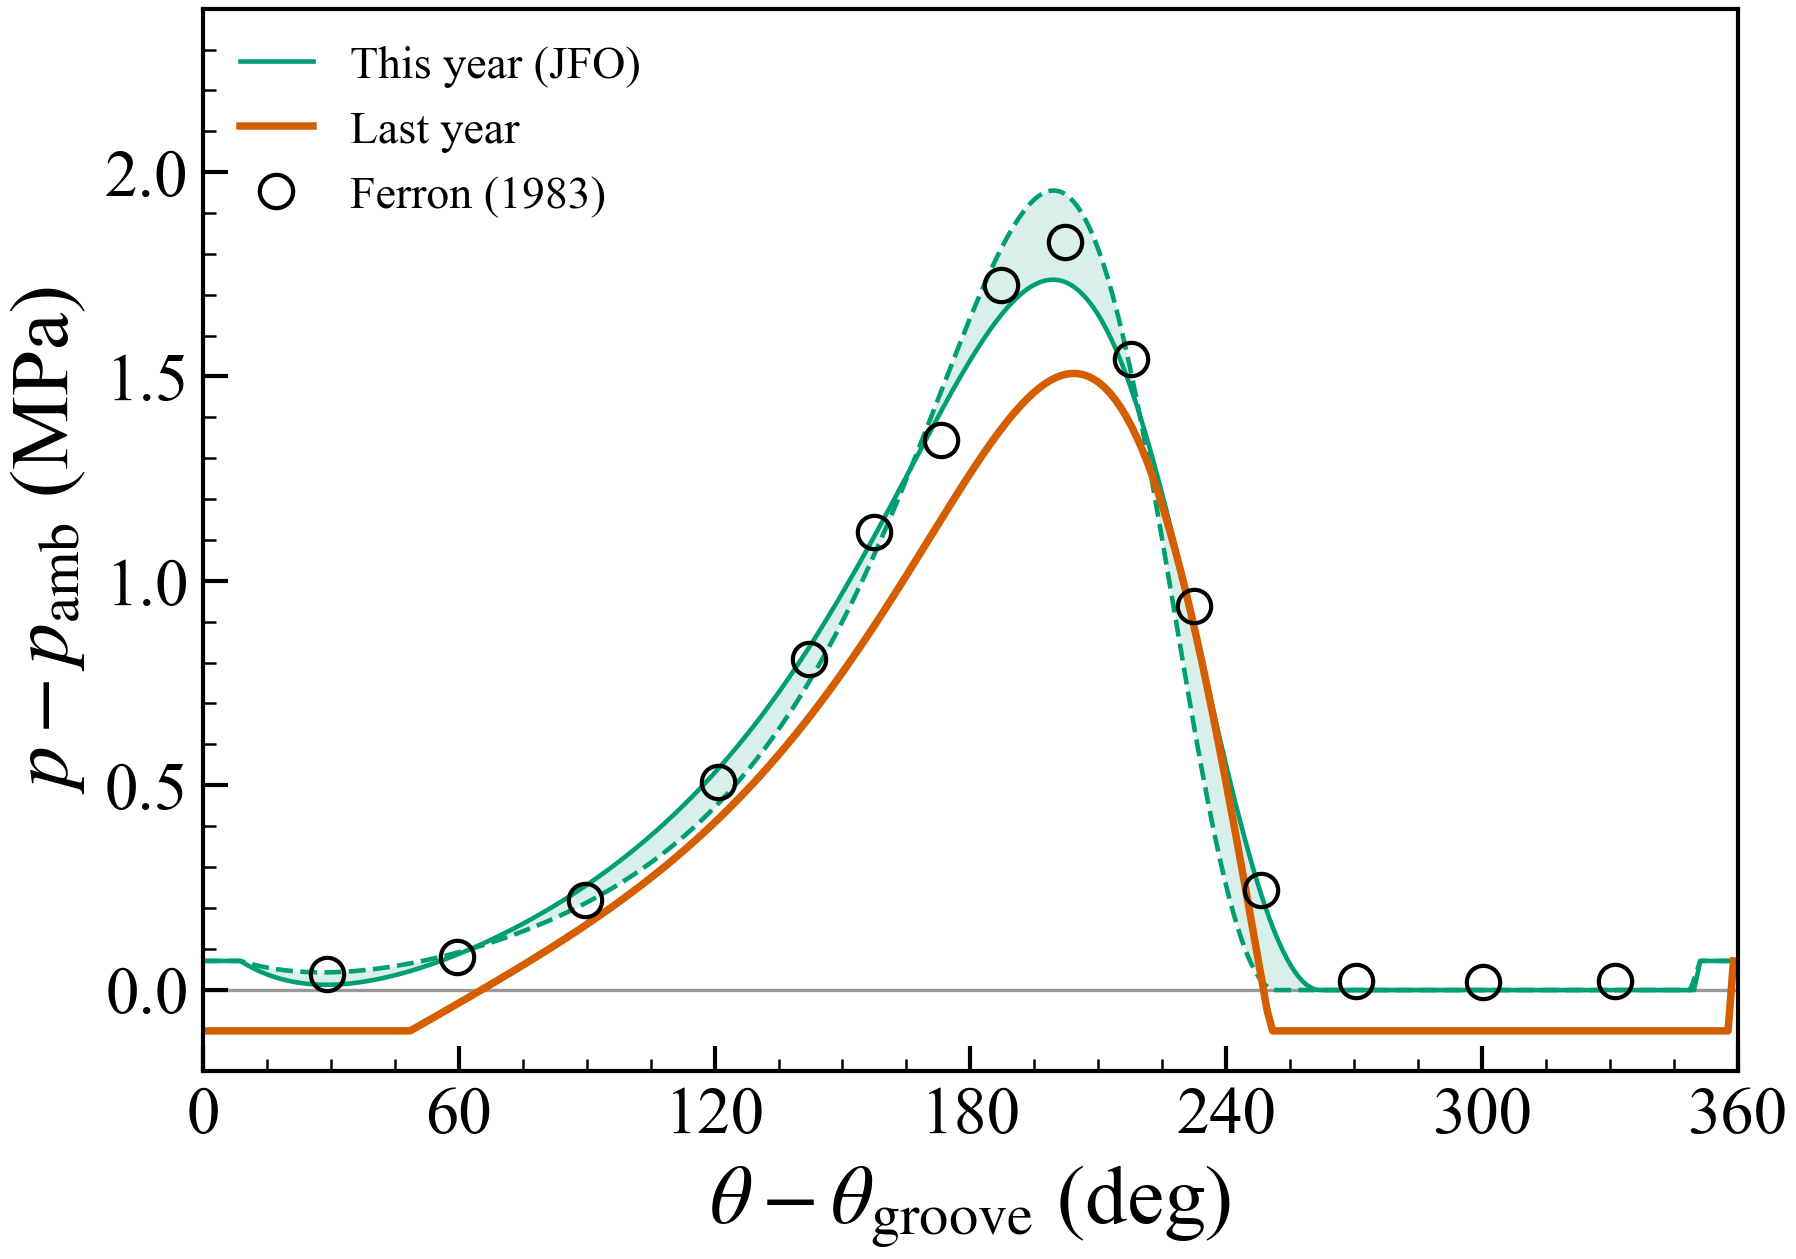
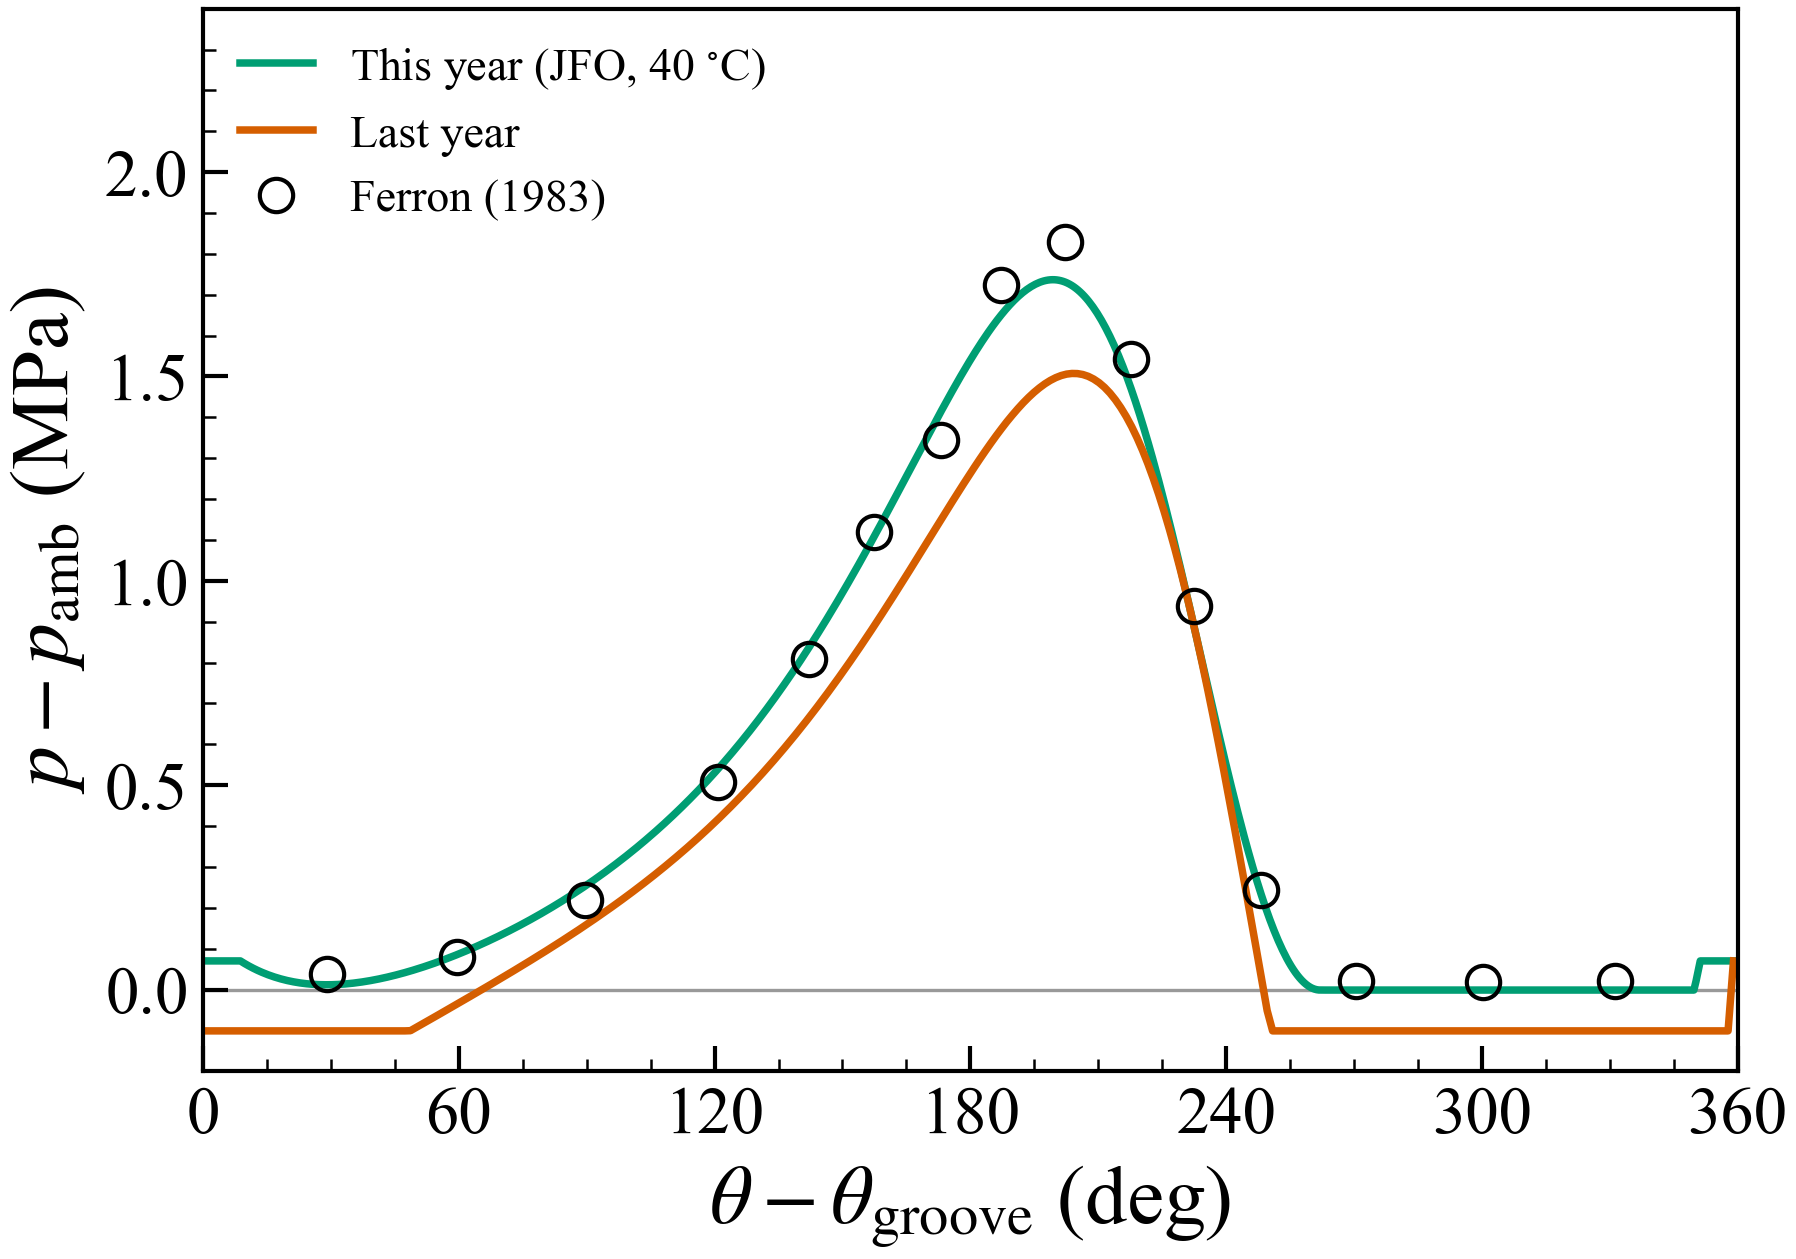
Plot Ferron comparison at 40 C

diff --git a/cases/01_ferron_vs_reynsim/plot_vs_reynsim.py b/cases/01_ferron_vs_reynsim/plot_vs_reynsim.py
@@ -2,7 +2,7 @@
 
 1. reynsim_midplane_pressure.png - mid-plane p(theta) at 4000 rpm / 6 kN:
    Ferron 1983 Fig. 6 experiment (points), previous-generation MATLAB/ReynSim
-   (line), current pancake FBNS isothermal band (two thin lines).
+   (line), current pancake FBNS isothermal result at 40 degC.
 2. reynsim_eccentricity.png - eps vs W: ReynSim's two numerical vintages, their
    own experimental digitisation (source unverified), our Fig. 5 digitisation
    rescaled 145/152, and our FBNS+THD sweep at 2000 rpm.
@@ -61,18 +61,11 @@ def plot_pressure():
     eq = json.loads((PRELIM / "equilibrium.json").read_text())
     fig, ax = plt.subplots(figsize=(6.6, 4.6))
 
-    # Current solver: 01-prelim isothermal FBNS band at this exact condition.
-    # One legend entry for the current solver: the isothermal band (40-55 C).
-    band = [("mu40", "-"), ("mu55", "--")]
-    curves = []
-    for i, (key, ls) in enumerate(band):
-        x, y = solver_midplane(PRELIM / eq[key]["dir"])
-        curves.append((x, y))
-        ax.plot(x, y, ls, lw=1.1, color=COLORS[2],
-                label=("This year (JFO)" if i == 0 else None))
-    if len(curves[0][0]) == len(curves[1][0]):
-        ax.fill_between(curves[0][0], curves[0][1], curves[1][1],
-                        color=COLORS[2], alpha=0.15, lw=0, zorder=0)
+    # Current solver: 01-prelim isothermal FBNS result at the 40 degC
+    # supply-temperature viscosity.
+    x, y = solver_midplane(PRELIM / eq["mu40"]["dir"])
+    ax.plot(x, y, "-", lw=1.8, color=COLORS[2],
+            label=r"This year (JFO, 40 $^{\circ}$C)")
 
     # Previous generation.
     xr, pr = R.midplane_pressure()

diff --git a/cases/01_ferron_vs_reynsim/README.md b/cases/01_ferron_vs_reynsim/README.md
@@ -27,14 +27,14 @@ this case has no separate `SUMMARY.md`.
 
 | figure | what it shows |
 |---|---|
-| `reynsim_midplane_pressure.png` | mid-plane p(theta) at 4000 rpm / 6 kN: experiment (points), ReynSim (line), pancake FBNS isothermal band (two thin lines) |
+| `reynsim_midplane_pressure.png` | mid-plane p(theta) at 4000 rpm / 6 kN: experiment (points), ReynSim (line), and pancake FBNS isothermal at 40 degC |
 | `reynsim_eccentricity.png` | eps vs W: ReynSim's two numerical vintages, their own experimental digitisation (source unverified), our Fig. 5 digitisation rescaled 145/152, and our FBNS+THD sweep at 2000 rpm |
 | `fig4_three_way.png` | the same three-way overlay at the Fig. 4 point (2000 rpm, 4 kN) |
 
 Headline: ReynSim's peak is 1.507 MPa gauge against the experiment's 1.828 MPa,
-i.e. **-17.6 %**, while pancake's two isothermal viscosities bracket the
-measurement at -5.0 % and +6.9 %. Peak locations agree within about 3 deg for all
-three.
+i.e. **-17.6 %**, while pancake's displayed 40 degC isothermal result is -5.0 %.
+The retained 55 degC result is +6.9 % but is not drawn. Peak locations agree
+within about 3 deg for all three displayed datasets.
 
 ## Cross-references (fix these before renaming anything)
 

diff --git a/CHANGES.md b/CHANGES.md
@@ -1,5 +1,9 @@
 # Change Log
 
+- Redrew the Ferron 4000 rpm / 6 kN three-way pressure comparison with only the
+  current JFO solver's 40 degC isothermal-viscosity result; the archived 55 degC
+  sensitivity remains in the data but is no longer plotted.
+
 ## Unreleased - Windows MSYS2 GUI Workflow
 
 ### 2026-08-07 - Ferron thermal-boundary audit corrections
